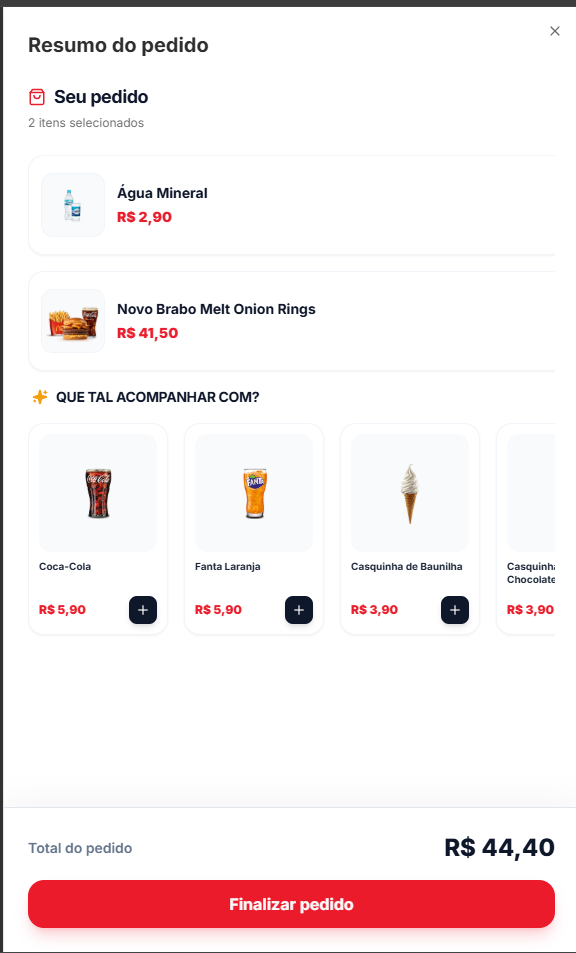
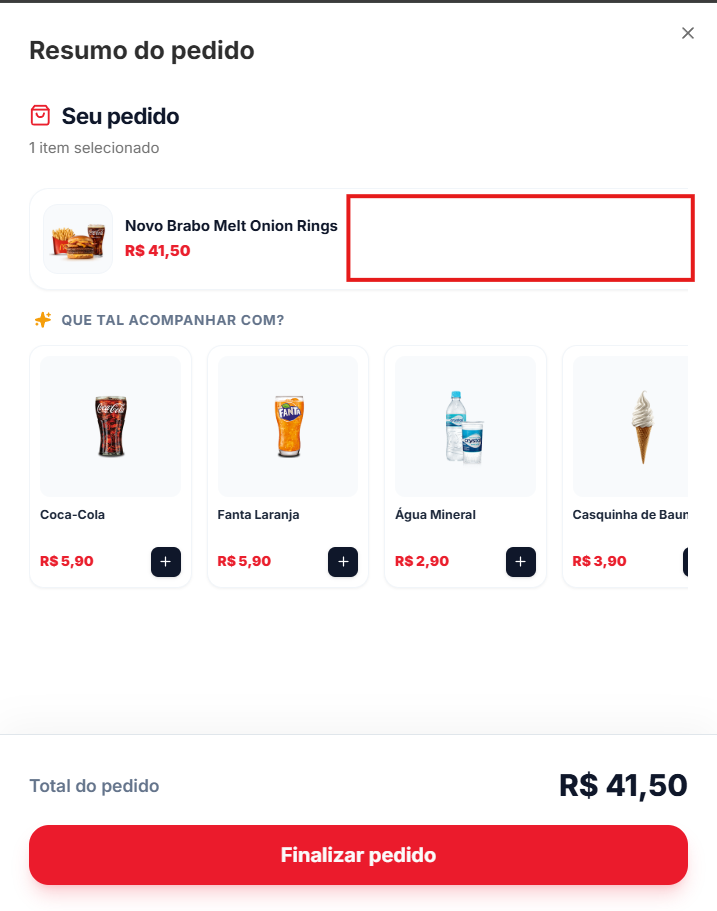
2

diff --git a/apps/vendas/src/app/[slug]/menu/components/cart-product-item.tsx b/apps/vendas/src/app/[slug]/menu/components/cart-product-item.tsx
@@ -19,7 +19,7 @@ const CartProductItem = ({ product }: CartItemProps) => {
   const unitPrice = product.price + optionsTotal;
 
   return (
-    <div className="flex w-full items-center justify-between gap-2 rounded-2xl border border-slate-100 bg-white p-2.5 shadow-sm overflow-hidden">
+    <div className="flex w-full items-center gap-3 rounded-2xl border border-slate-100 bg-white p-2 shadow-sm overflow-hidden">
       {/* Esquerda: Imagem e Informações */}
       <div className="flex min-w-0 flex-1 items-center gap-2.5">
         <div className="relative h-14 w-14 shrink-0 overflow-hidden rounded-xl bg-slate-50 border border-slate-100">
@@ -40,7 +40,7 @@ const CartProductItem = ({ product }: CartItemProps) => {
           {((product.selectedOptions && product.selectedOptions.length > 0) || product.notes) && (
             <div className="mt-0.5 flex flex-wrap gap-x-1 text-[9px] text-slate-400">
               {product.selectedOptions?.slice(0, 2).map((opt) => (
-                <span key={opt.id} className="whitespace-nowrap">• {opt.name}</span>
+                <span key={opt.id} className="line-clamp-1 break-all">• {opt.name}</span>
               ))}
               {(product.selectedOptions?.length ?? 0) > 2 && <span>...</span>}
             </div>
@@ -53,7 +53,7 @@ const CartProductItem = ({ product }: CartItemProps) => {
       </div>
 
       {/* Direita: Ações (Garantindo que fiquem dentro da tela) */}
-      <div className="flex shrink-0 flex-col items-end gap-1.5 border-l border-slate-50 pl-2">
+      <div className="flex shrink-0 flex-col items-end gap-1.5 pl-2">
         <button
           type="button"
           onClick={() => removeProduct(product.cartItemId)}
